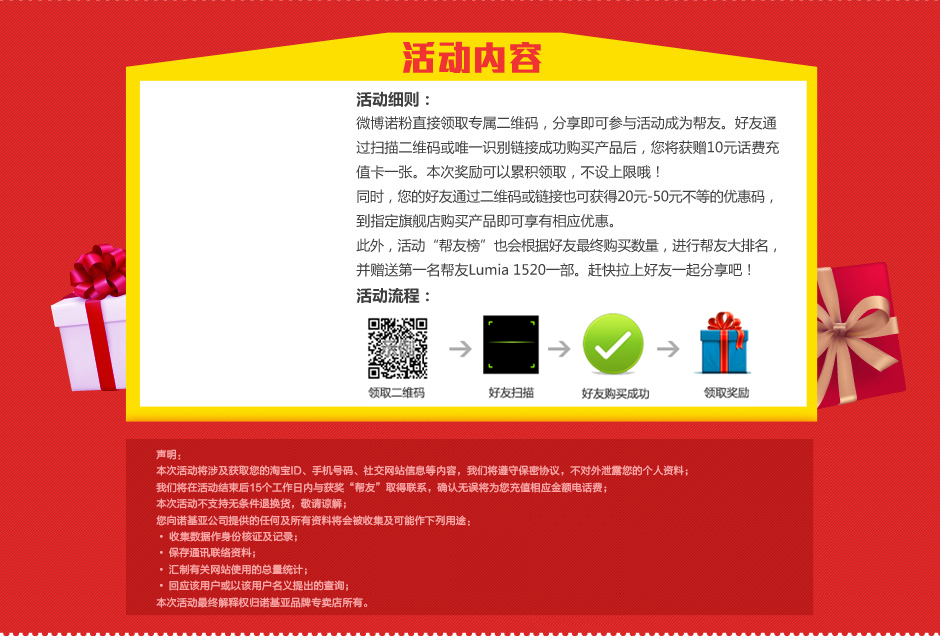
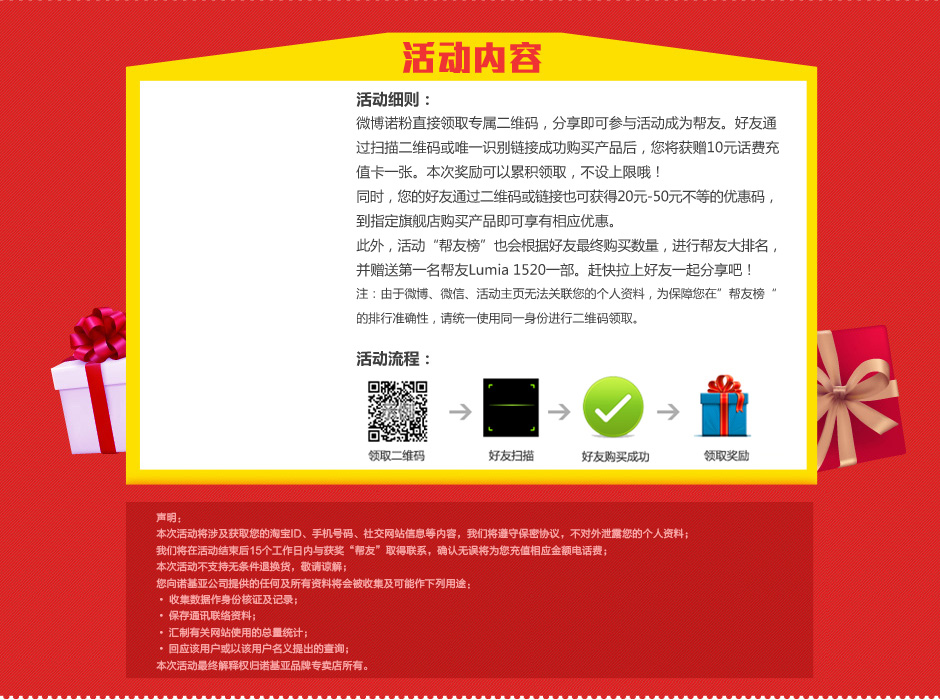
444

diff --git a/Public/weibo/css/style.css b/Public/weibo/css/style.css
@@ -30,7 +30,7 @@ a:active{noOutline:expression(this.onFocus=this.blur());}
 .header{ width:940px; height:367px; background:url(../images/top.jpg) no-repeat;}
 	a.logo{ float:right; width:114px; height:24px; margin:25px 68px 0 0; display:inline-block;}
 	
-.hdnr{ width:940px; height:637px; background:url(../images/hdnr.jpg) no-repeat;}
+.hdnr{ width:940px; height:700px; background:url(../images/hdnr.jpg) no-repeat;}
 	.ewmbox{ width:153px; height:250px; padding:107px 0 0 173px;}
 		.ewmimg{ width:153px; height:153px; margin:0 0 30px -10px;}
 		.ewmimg img{ border:0;}
